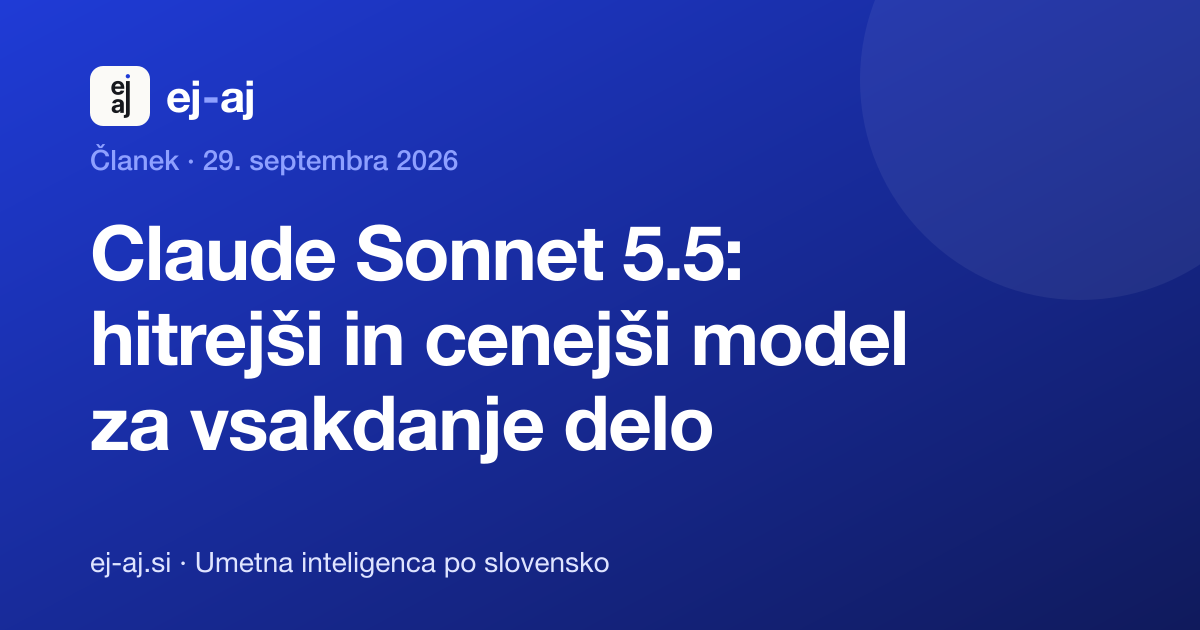
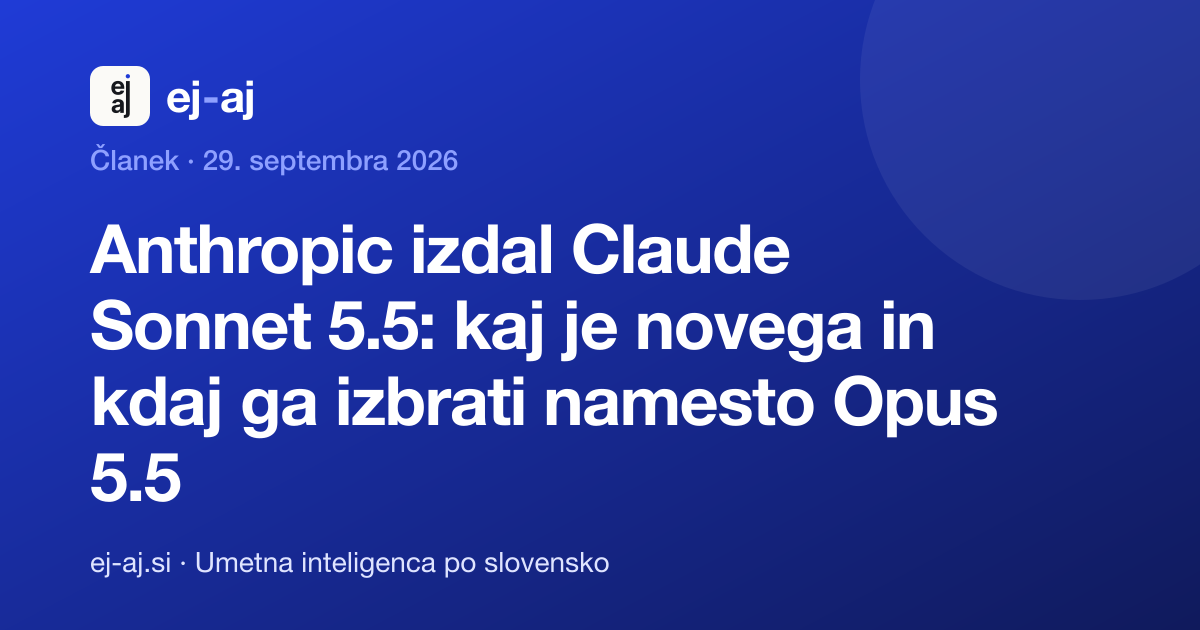
Content: clearer title and plain-language copy (claude-sonnet-5-5)

Changed region(s): [[0.0617, 0.3317, 0.8325, 0.8143]]

diff --git a/src/content/novice/2026-09-29-claude-sonnet-5-5.md b/src/content/novice/2026-09-29-claude-sonnet-5-5.md
@@ -1,28 +1,42 @@
 ---
-title: 'Claude Sonnet 5.5: hitrejši in cenejši model za vsakdanje delo'
-description: 'Anthropic je 28. septembra izdal Claude Sonnet 5.5. Je hitrejši in na nalogo cenejši od Sonnet 5, pri zahtevnem odprtem delu pa ostaja močnejši Opus 5.5.'
+title: 'Anthropic izdal Claude Sonnet 5.5: kaj je novega in kdaj ga izbrati namesto Opus 5.5'
+description: 'Anthropic je 28. septembra izdal model Claude Sonnet 5.5. Kaj je novega, koliko stane, kje je na voljo in za katere naloge je primernejši od dražjega Opus 5.5.'
 date: 2026-09-29
 type: clanek
 ---
 
-Anthropic je 28. septembra izdal Claude Sonnet 5.5, drugi model družine 5.5 (prvi je bil Opus 5.5). Sonnet je cenejši in hitrejši od Opusa, namenjen delu, kjer štejeta hitrost in cena.
+Anthropic je 28. septembra izdal nov model Claude Sonnet 5.5. Je drugi model iz družine 5.5, prvi je bil Opus 5.5. Sonnet je cenejši in hitrejši od Opusa in je namenjen vsakdanjemu delu.
 
-> **Na kratko:** pri pisarniškem delu (dokumenti, predstavitve, preglednice) je Sonnet 5.5 po Anthropicovih navedbah skoraj enako dober kot Opus 5.5, stane pa v API-ju pol manj. Opus 5.5 ostaja boljši za zahtevne naloge, kjer mora model dolgo presojati sam.
+> **Na kratko:** pri izdelavi dokumentov, predstavitev in preglednic je Sonnet 5.5 po Anthropicovih navedbah skoraj enako dober kot Opus 5.5, za razvijalce pa stane pol manj. Za zahtevne naloge, pri katerih mora model sam presojati, je še vedno boljši Opus 5.5.
 
 ## Kaj je novega
 
-Po navedbah Anthropica Sonnet 5.5 piše odgovore več kot 30 % hitreje kot Sonnet 5. Za isto nalogo porabi manj tokenov, zato je na nalogo do 30 % cenejši, čeprav je cena na token ostala enaka: 2 USD za milijon vhodnih in 10 USD za milijon izhodnih tokenov. Opus 5.5 stane 4 oziroma 20 USD. Oba modela imata kontekstno okno milijon tokenov.
+Anthropic navaja, da Sonnet 5.5 odgovore piše več kot 30 % hitreje kot prejšnji Sonnet 5. Za isto nalogo porabi manj tokenov, zato je naloga do 30 % cenejša. Token je košček besedila, običajno del besede, in po številu tokenov se obračunava raba modela.
 
-Anthropic piše, da je Sonnet 5.5 najmočnejši pri dobro omejenih vsakdanjih nalogah, popravljanju napak v kodi ter izdelavi dokumentov, predstavitev in preglednic. Na testu GDPval-AA, ki meri pisarniško in strokovno delo, je skoraj izenačen z Opus 5.5. Opus 5.5 je po navedbah podjetja jasno močnejši pri zapletenem odprtem delu, ki zahteva dolgotrajno presojo.
+Cena na token je ostala enaka kot pri Sonnet 5: 2 USD za milijon tokenov, ki jih modelu pošljete, in 10 USD za milijon tokenov, ki jih model napiše. Opus 5.5 stane 4 oziroma 20 USD. Ti ceni veljata za razvijalce, ki model uporabljajo prek API-ja, torej povezave, prek katere lastni programi uporabljajo model. Pri mesečni naročnini na Claude se ne plačuje po tokenih.
 
-V klepetu ga lahko uporablja vsak na Claude.ai, na spletu ter v aplikacijah za iOS in Android. Za razvijalce je na voljo na vseh Anthropicovih platformah, tudi pri Amazon Web Services, Google Cloud in Microsoft Azure, v API-ju pod oznako `claude-sonnet-5-5`. Najmanjši model družine, Haiku 5.5, bo po napovedi prišel v prihodnjih tednih.
+Oba modela lahko naenkrat upoštevata do milijon tokenov besedila, kar je po Anthropicovih podatkih približno 555.000 angleških besed. Temu se reče kontekstno okno.
 
-Viri: [Anthropic, Claude Sonnet 5.5](https://www.anthropic.com/claude-sonnet-5-5), [Anthropic, Claude Sonnet](https://www.anthropic.com/claude/sonnet), [Claude, pregled modelov](https://platform.claude.com/docs/en/about-claude/models/overview)
+Viri: [Anthropic, Claude Sonnet 5.5](https://www.anthropic.com/claude-sonnet-5-5), [Claude, pregled modelov](https://platform.claude.com/docs/en/about-claude/models/overview)
+
+## Pri čem je dober
+
+Anthropic piše, da je Sonnet 5.5 najboljši pri vsakdanjih nalogah z jasnim navodilom, pri popravljanju napak v programski kodi in pri izdelavi dokumentov, predstavitev in preglednic. Na testu GDPval-AA, ki meri, kako dobro model opravi pisarniške in strokovne naloge, je skoraj izenačen z Opus 5.5. Opus 5.5 je po navedbah podjetja jasno boljši pri zapletenih nalogah, kjer pot do rezultata ni vnaprej jasna in mora model dalj časa sam presojati.
+
+## Kje je na voljo
+
+V klepetu ga lahko uporablja vsak na Claude.ai, na spletu ter v aplikacijah za iOS in Android. Anthropic ne navaja, kateri paketi naročnine ga dobijo. Razvijalci ga lahko uporabljajo prek Anthropicovega API-ja ter pri Amazon Web Services, Google Cloud in Microsoft Azure. Najmanjši model iz družine, Haiku 5.5, naj bi prišel v prihodnjih tednih.
+
+Viri: [Anthropic, Claude Sonnet 5.5](https://www.anthropic.com/claude-sonnet-5-5), [Anthropic, Claude Sonnet](https://www.anthropic.com/claude/sonnet)
 
 ## Kdaj Sonnet in kdaj Opus
 
-Preprosto pravilo za ekipo: Sonnet za rutino, Opus za presojo. Rutina so naloge z jasnim navodilom in jasnim rezultatom, na primer povzetek dolgega maila, tabela iz priloženega dokumenta, osnutek odgovora stranki po vzorcu ali predstavitev iz zapiskov. Presoja so naloge, kjer mora model sam ugotoviti, kaj je pomembno, na primer primerjava več pogodb, analiza, pri kateri ne veste vnaprej, kaj iščete, ali daljša samostojna naloga v Claude Code.
+Preprosto pravilo za ekipo: Sonnet za rutino, Opus za presojo.
 
-Pravilo preverite na svojem delu. Isto rutinsko nalogo naredite z obema modeloma in primerjajte, koliko ste morali popraviti. Če je razlika majhna, je Sonnet boljša izbira, ker je hitrejši.
+Rutina so naloge z jasnim navodilom in jasnim rezultatom. Na primer povzetek dolgega e-sporočila, tabela iz priloženega dokumenta, osnutek odgovora stranki po vzorcu ali predstavitev iz zapiskov.
 
-**Kaj to pomeni za vas:** pri avtomatizacijah prek API-ja, ki tečejo stokrat na dan, je razlika med Sonnet in Opus pol računa, zato se splača preizkusiti, ali Sonnet 5.5 nalogo opravi dovolj dobro. Primerjava cen vseh modelov je na strani [Modeli in cene](/modeli/).
+Presoja so naloge, pri katerih mora model sam ugotoviti, kaj je pomembno. Na primer primerjava več pogodb ali analiza, pri kateri vnaprej ne veste, kaj iščete.
+
+Pravilo preverite na svojem delu. Isto rutinsko nalogo naredite z obema modeloma in primerjajte, koliko ste morali popraviti. Če je razlika majhna, izberite Sonnet, ker je hitrejši.
+
+**Kaj to pomeni za vas:** če imate avtomatizacijo, ki model prek API-ja uporabi stokrat na dan, vas Sonnet stane pol manj kot Opus. Preizkusite, ali Sonnet 5.5 nalogo opravi dovolj dobro. Cene vseh modelov so na strani [Modeli in cene](/modeli/).
